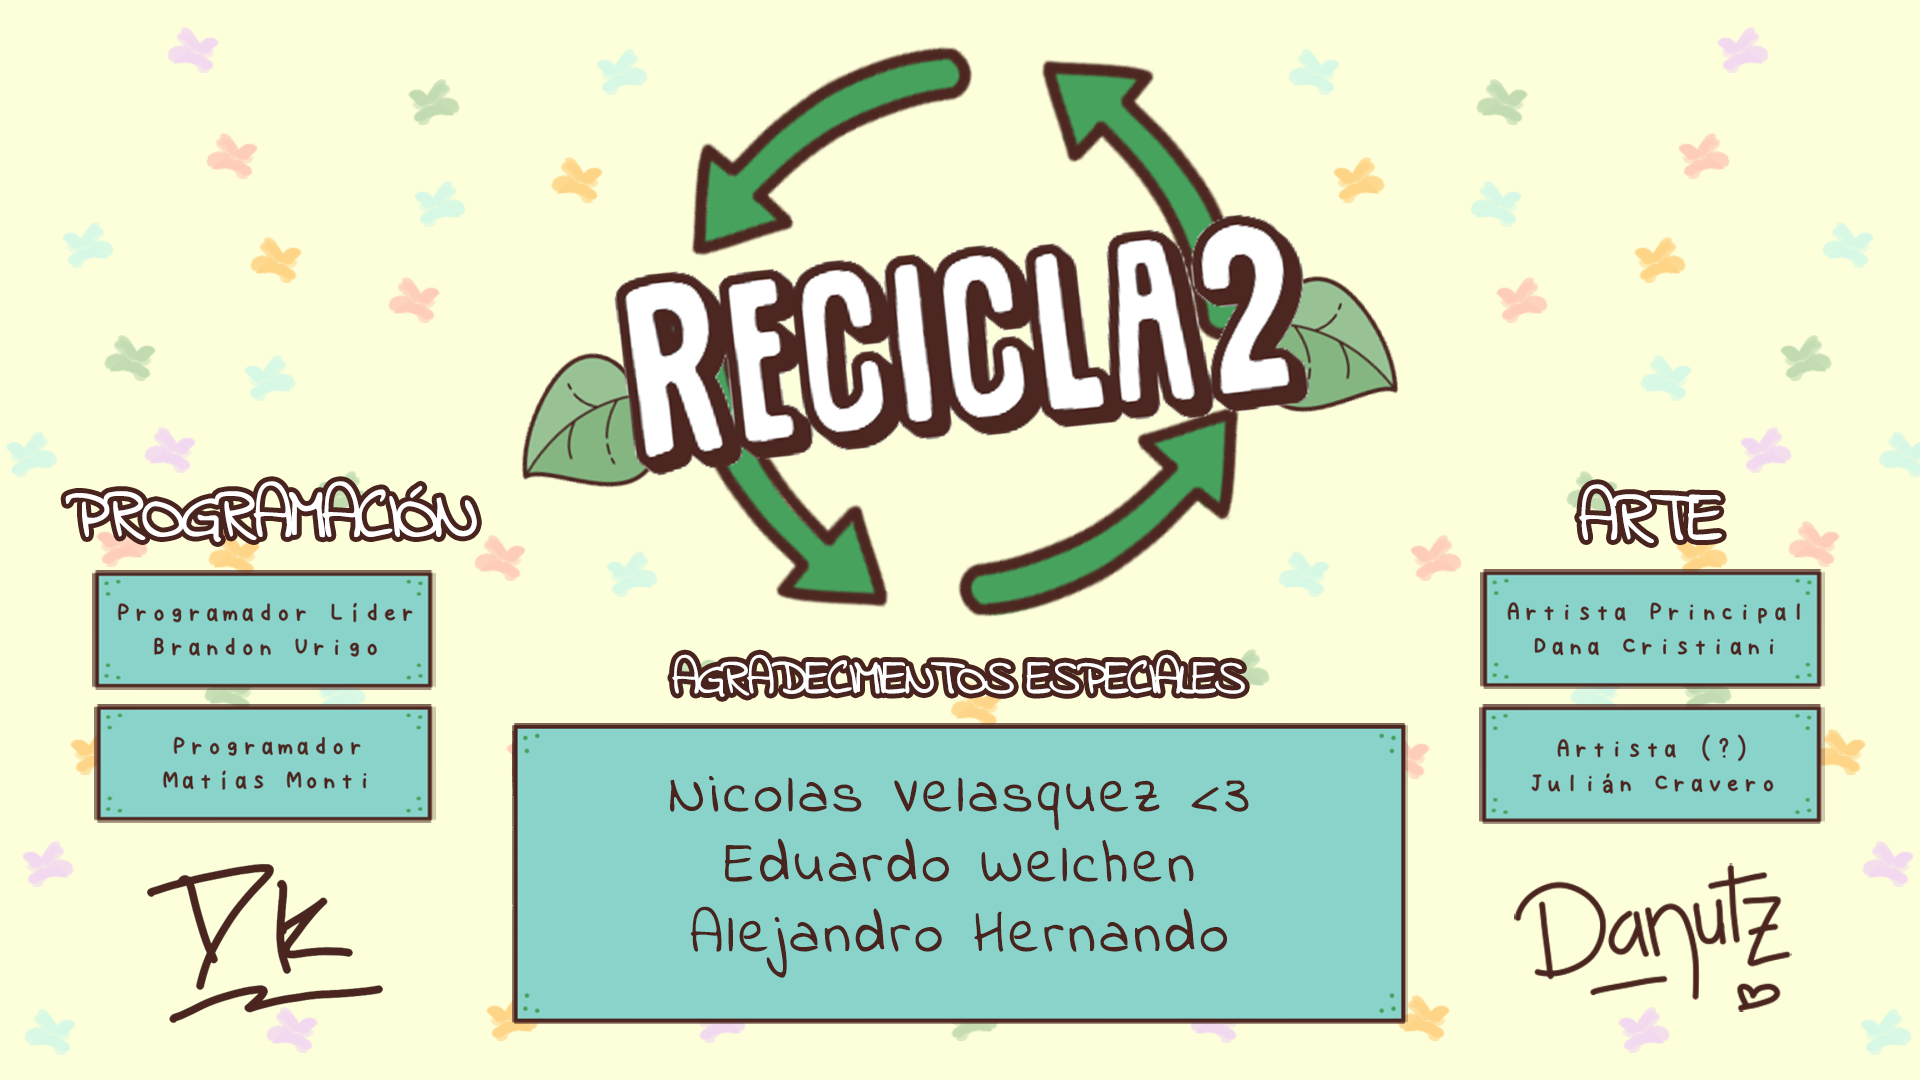
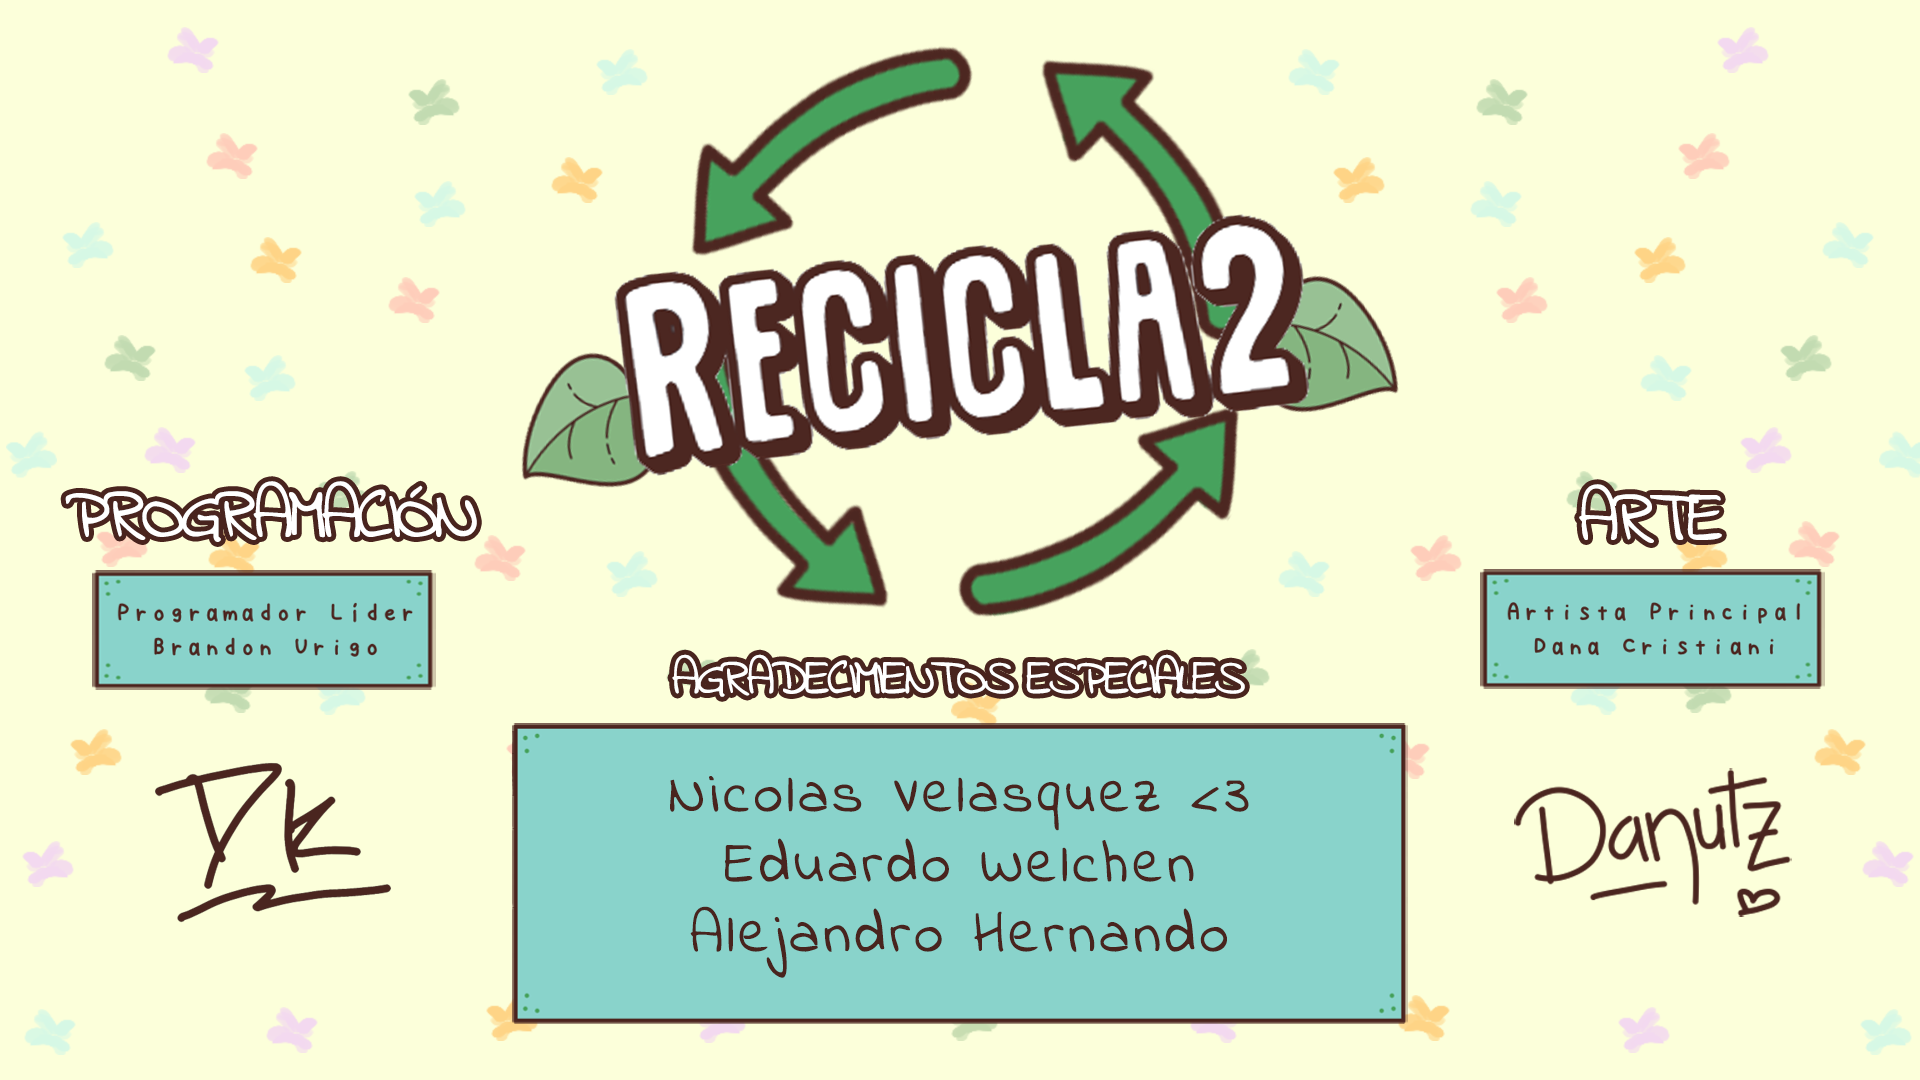
♻REFACTOR: Change Credits
➖REMOVE: Risa vaquita :c and others

Changed region(s): [[0.75, 0.6417, 0.9688, 0.9472], [0.0312, 0.6417, 0.25, 0.9472]]

diff --git a/src/View/Creditos.ts b/src/View/Creditos.ts
@@ -73,8 +73,8 @@ export default class Creditos extends Phaser.Scene {
     btnDana.setDepth(2);
     btnDana.setInteractive();
     btnDana.on("pointerup", () => {
-      this.add.image(1920 / 2, 1080 / 2, "risaVaquita").setDepth(10);
-      this.time.delayedCall(1000, () => {
+      //this.add.image(1920 / 2, 1080 / 2, "risaVaquita").setDepth(10);
+      this.time.delayedCall(200, () => {
         window.location.href = "https://twitter.com/sassy_kujo";
       });
     });
